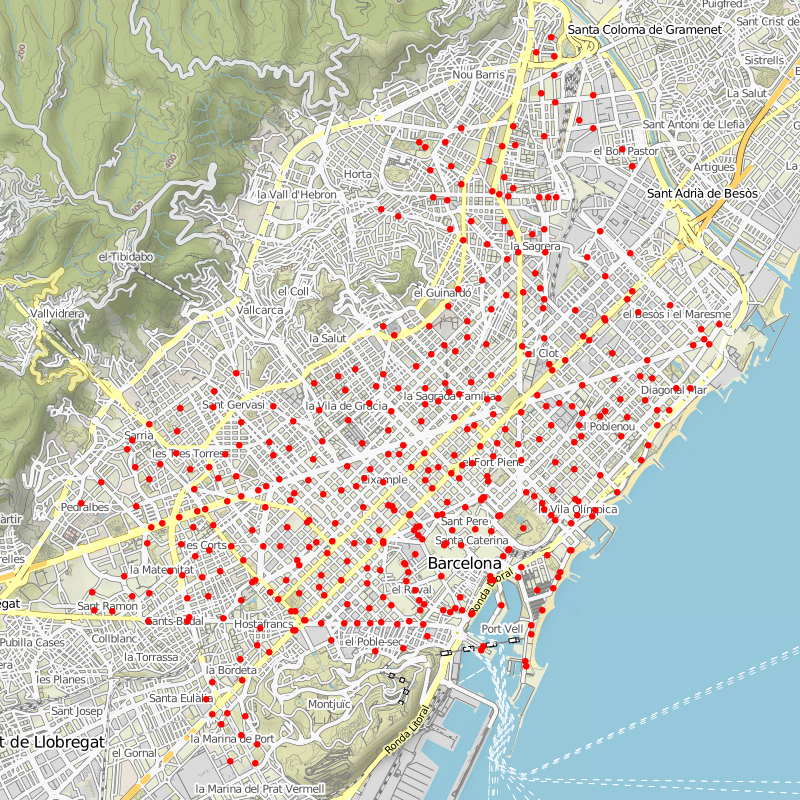
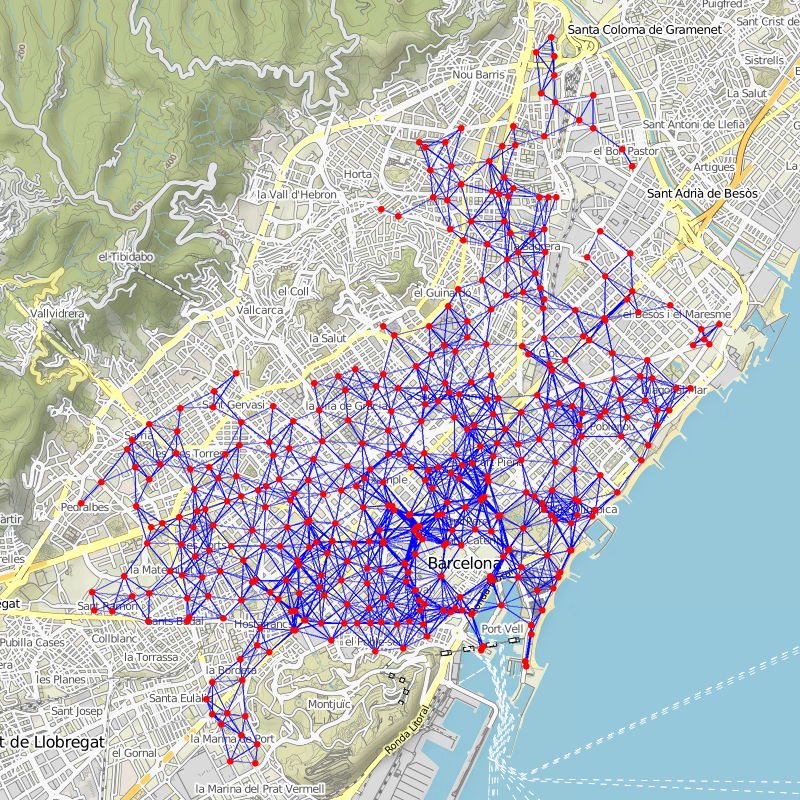
ahoraaaa

diff --git a/data.py b/data.py
@@ -24,12 +24,11 @@ def data():
     pos=nx.get_node_attributes(G,'pos')
     for nod in G.nodes():
         for nod2 in G.nodes():
-            pos=nx.get_node_attributes(G,'pos')
-            if (haversine(pos[nod],pos[nod2]) <= distance):
+            coord1 = (pos[nod][1],pos[nod][0])
+            coord2 = (pos[nod2][1],pos[nod2][0])
+            if (haversine(coord1,coord2) <= distance):
                 G.add_edge(nod,nod2)
-    print(G.number_of_nodes())
-    print(G.number_of_edges ())
-    print(haversine(pos[303],pos[338]))
+
     return G
     # pos = nx.get_node_attributes(G, 'pos')
     # nx.draw(G, pos, **options)
@@ -37,8 +36,9 @@ def data():
 
 def print_map(G):
     m = StaticMap(800, 800)
-    for n in list(G.nodes(data=True)):
-        marker = CircleMarker(n[1]['pos'], 'red', 6)
+    for n in G.nodes():
+        pos=nx.get_node_attributes(G,'pos')
+        marker = CircleMarker(pos[n], 'red', 6)
         m.add_marker(marker)
     for n2 in G.edges():
         pos=nx.get_node_attributes(G,'pos')
@@ -59,6 +59,10 @@ def addressesTOcoordinates(addresses):
                 location1.longitude), (location2.latitude, location2.longitude)
     except BaseException:
         return None
+
+def shortest_path(G):
+    print(nx.shortest_path(G, source=0, target=4))
+
 
 
 print_map(data())
